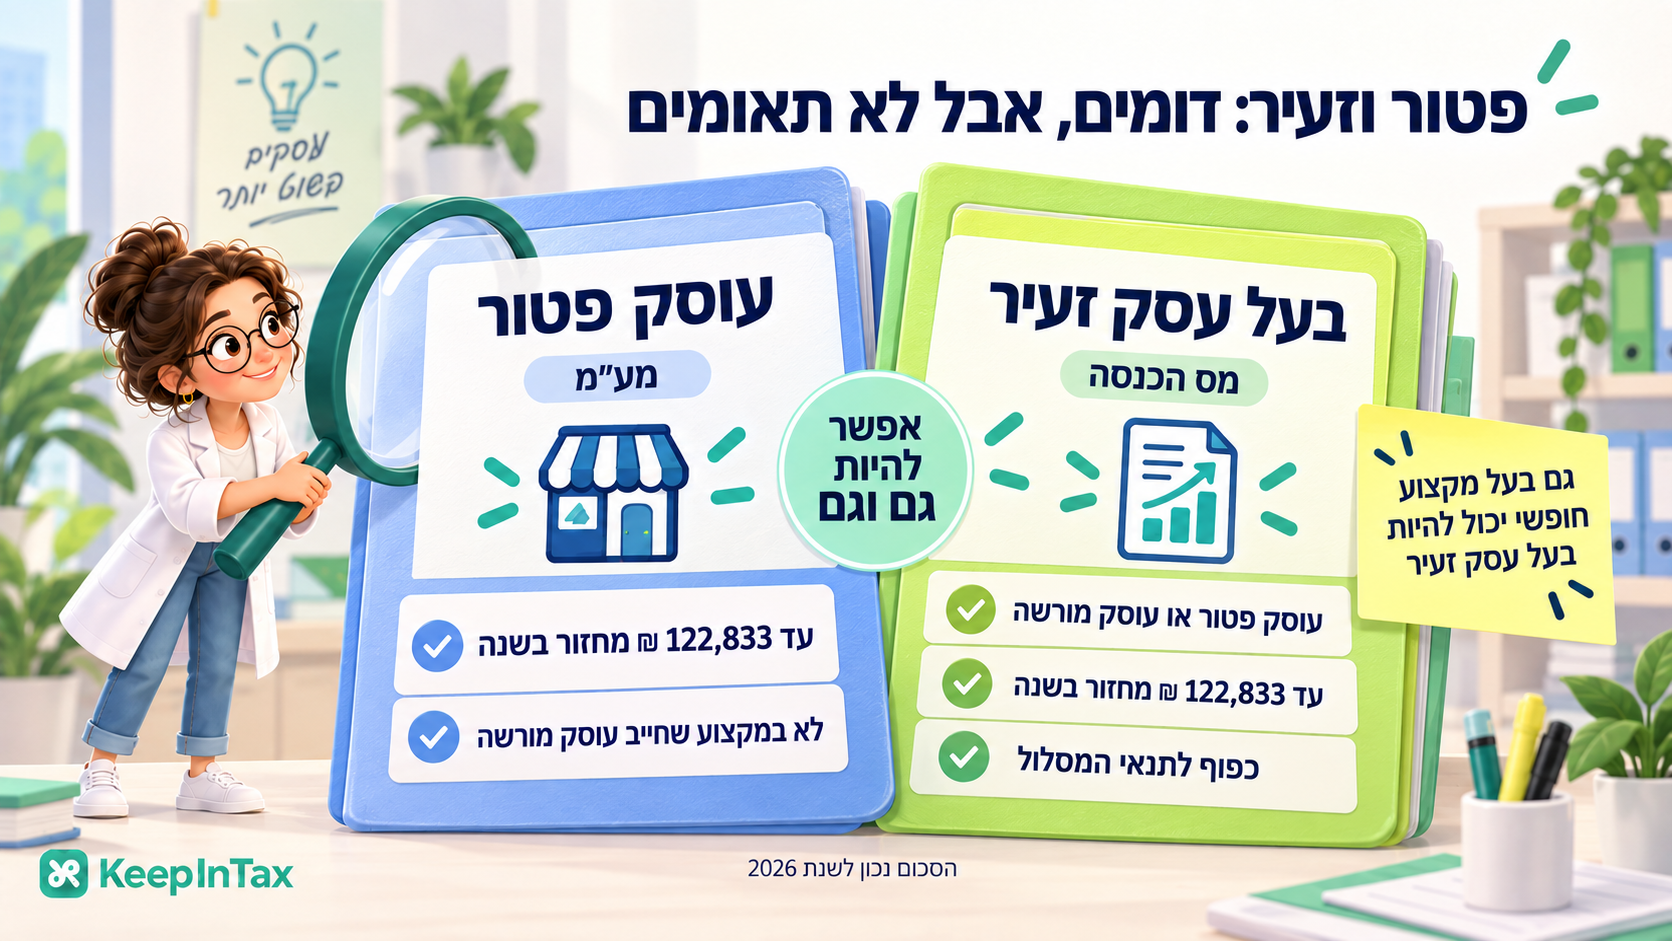
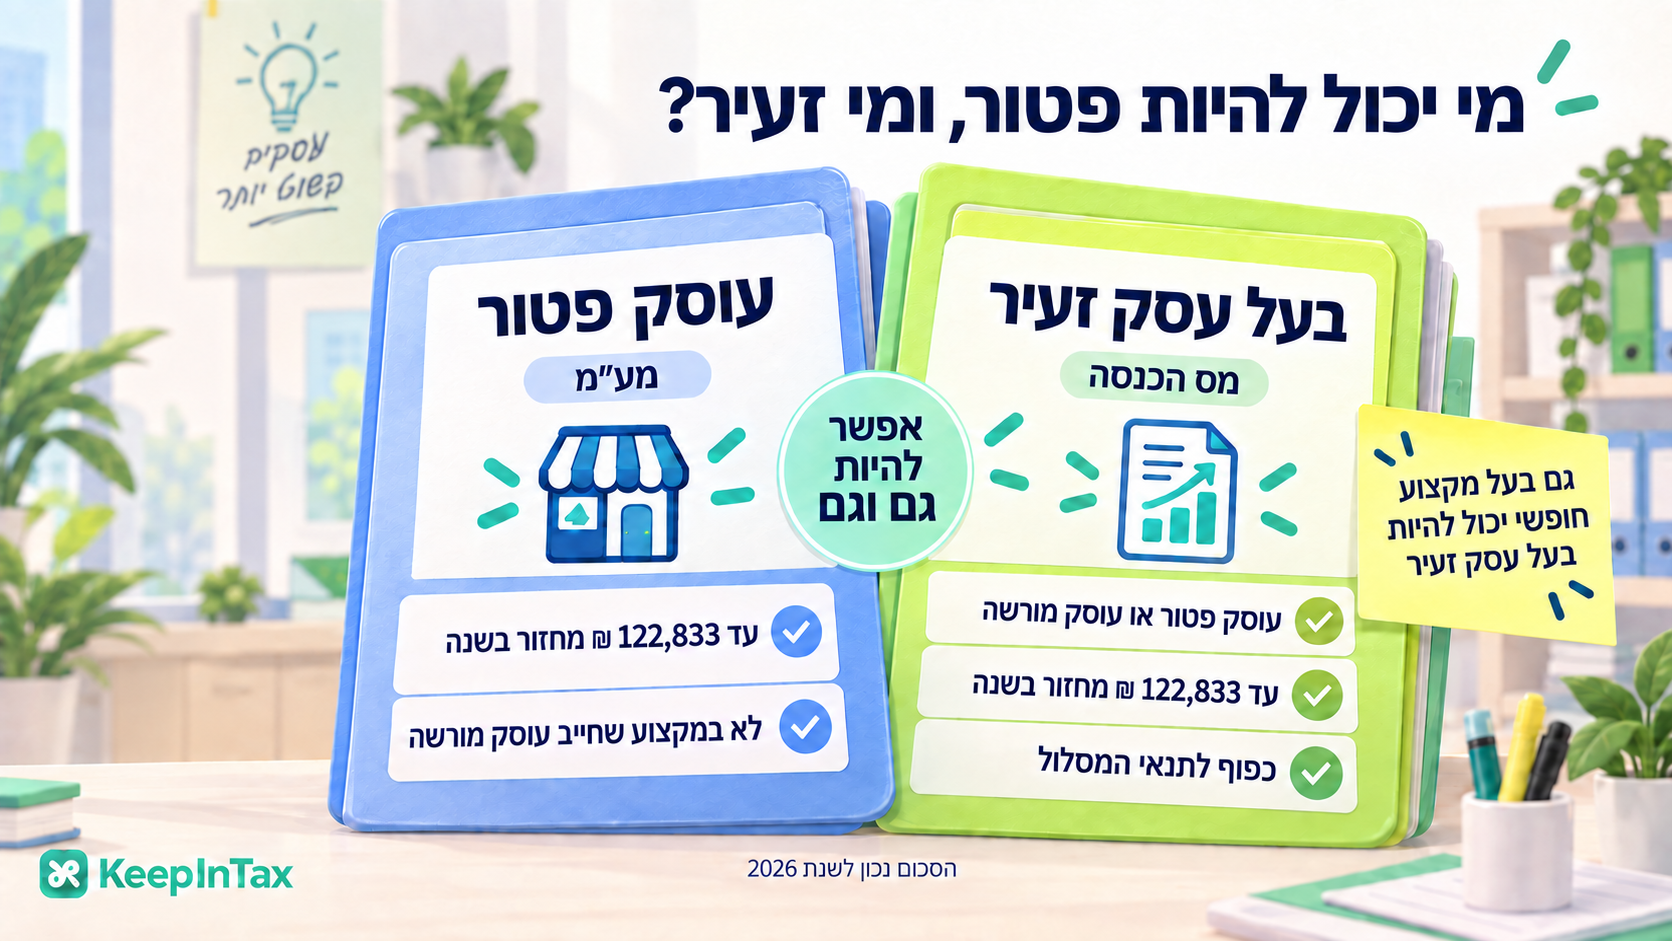
fix(guide): refine eligibility and micro-business slides

diff --git a/frontend/src/app/pages/admin-panel/self-employed-guide.content.ts b/frontend/src/app/pages/admin-panel/self-employed-guide.content.ts
@@ -93,7 +93,7 @@ export const SELF_EMPLOYED_GUIDE_SLIDES: GuideSlide[] = [
     title: 'החובות של כל עסק',
     subtitle: 'מס הכנסה, מע״מ וביטוח לאומי',
     items: [
-      { label: 'בעל עסק זעיר', category: 'המסלול המקוצר', description: 'מס הכנסה: תיאום מס ודיווח שנתי מקוצר. מע״מ: לפי הסיווג, פטור או מורשה. ביטוח לאומי: דיווח ותשלום לפי המעמד וההכנסה.', icon: 'flash-outline' },
+      { label: 'בעל עסק זעיר', category: 'המסלול המקוצר', description: 'מס הכנסה: תיאום מס ודיווח שנתי מקוצר (ניכוי 30% הוצאות). מע״מ: לפי הסיווג, פטור או מורשה. ביטוח לאומי: דיווח ותשלום לפי המעמד וההכנסה.', icon: 'flash-outline' },
       { label: 'עוסק פטור', category: 'במסלול הרגיל', description: 'מס הכנסה: מקדמות ודוח שנתי. מע״מ: הצהרת עוסק פטור אחת לשנה. ביטוח לאומי: דיווח ותשלום לפי המעמד וההכנסה.', icon: 'document-text-outline' },
       { label: 'עוסק מורשה', category: 'במסלול הרגיל', description: 'מס הכנסה: מקדמות ודוח שנתי. מע״מ: דיווח תקופתי למע״מ. ביטוח לאומי: דיווח ותשלום לפי המעמד וההכנסה.', icon: 'document-text-outline' },
     ],
@@ -103,7 +103,7 @@ export const SELF_EMPLOYED_GUIDE_SLIDES: GuideSlide[] = [
   {
     id: 'status-comparison',
     layout: 'status-comparison',
-    title: 'פטור וזעיר: דומים, אבל לא תאומים',
+    title: 'מי יכול להיות פטור, ומי זעיר?',
     subtitle: `התקרה לשנת ${figures.taxYear}: ${ceiling} ₪ מחזור בשנה`,
     items: [
       { label: 'עוסק פטור', category: 'מע״מ', description: 'המחזור עד התקרה והעיסוק אינו מקצוע שחייב עוסק מורשה.', icon: 'storefront-outline' },

diff --git a/frontend/src/app/pages/admin-panel/self-employed-guide.component.spec.ts b/frontend/src/app/pages/admin-panel/self-employed-guide.component.spec.ts
@@ -5,6 +5,7 @@ describe('SelfEmployedGuideComponent', () => {
   let component: SelfEmployedGuideComponent;
   beforeEach(() => component = new SelfEmployedGuideComponent());
   it('orders the main sequence and stops at the authorities hub', () => {
+    expect(component.slides[5].title).toBe('מי יכול להיות פטור, ומי זעיר?');
     expect(component.slides[4].title).toBe('החובות של כל עסק');
     expect(component.slides[4].items?.every(item => item.description.includes('ביטוח לאומי'))).toBeTrue();
     expect(component.slides[2].title).toBe('כשאתם שכירים, המעסיק מטפל בהכל');

diff --git a/docs/marketing/business-obligations-slide.md b/docs/marketing/business-obligations-slide.md
@@ -1,6 +1,6 @@
 # Business obligations overview — 2026-09-22
 
-Image source: `exec-8435e1eb-8e89-42a2-ab75-350ca353d3fb.png`, copied to
+Image source: `exec-ff70758e-8cdc-4023-9804-c674ac0d8105.png`, copied to
 `frontend/src/assets/self-employed-guide/income-overview-approved.png`.
 The existing KeepInTax SVG is rendered at the bottom left to preserve branding.
 RTL follow-up: all nine authority icons are to the right of their text blocks;
@@ -11,7 +11,7 @@ User requested replacing the scientist with Kipi and adding VAT and NI duties.
 Keep three folders: micro business, exempt dealer (regular income-tax route),
 authorized dealer (regular income-tax route). No company column.
 
-- Micro: tax coordination and abbreviated annual report; VAT by exempt/authorized status.
+- Micro: tax coordination and abbreviated annual report `(ניכוי 30% הוצאות)`; VAT by exempt/authorized status.
 - Exempt: income-tax advances/annual report; annual exempt VAT declaration.
 - Authorized: income-tax advances/annual report; periodic VAT reporting.
 - All: `ביטוח לאומי — דיווח ותשלום לפי המעמד וההכנסה`.
@@ -30,3 +30,7 @@ Official sources checked:
 Built-in image edit prompt: preserve the office and colored folder design,
 replace scientist with approved Kipi, expand folder checklists into three
 authority sections with the wording above. No calculator or tax parameter changes.
+
+Latest built-in text-localization prompt: add only `(ניכוי 30% הוצאות)` under
+the micro-business abbreviated annual report, preserving right-aligned copy,
+right-side icons, all other text, Kipi and layout.

diff --git a/frontend/src/app/pages/admin-panel/AGENTS.md b/frontend/src/app/pages/admin-panel/AGENTS.md
@@ -18,6 +18,12 @@ Internal admin console (tabbed) for staff to manage clients dashboard, the unifi
 
 ## Main flows
 
+- Status-comparison artwork revision: `exec-ff3d4736-2109-4e27-8dba-44ee02c36574.png`, built-in image edit. Prompt scope: new eligibility heading and five right-side check icons/right-aligned rows, then remove the scientist and her magnifying glass and restore the office background; retain eligibility copy and 2026 figures. Saved as `frontend/src/assets/self-employed-guide/status-comparison-approved.png`.
+
+- Main slide 5 micro-business annual-report text includes `(ניכוי 30% הוצאות)` in the artwork and content description. No calculation or eligibility changes.
+
+- Main slide 6 (`status-comparison`) title is `מי יכול להיות פטור, ומי זעיר?`. Its five checklist rows use right-side check icons and right-aligned text; eligibility copy and figures are unchanged.
+
 - Obligations-folder items use RTL layout: icons on the right of right-aligned text, in all three folders.
 
 - Main slide 5 (`income-tax-overview`) is `החובות של כל עסק`, with Kipi and obligations grouped by authority. Exempt VAT declaration is annual, authorized VAT reporting periodic, micro VAT obligations follow its VAT classification; NI reporting/payment depends on status and income. Evidence and artwork provenance: `docs/marketing/business-obligations-slide.md`.
